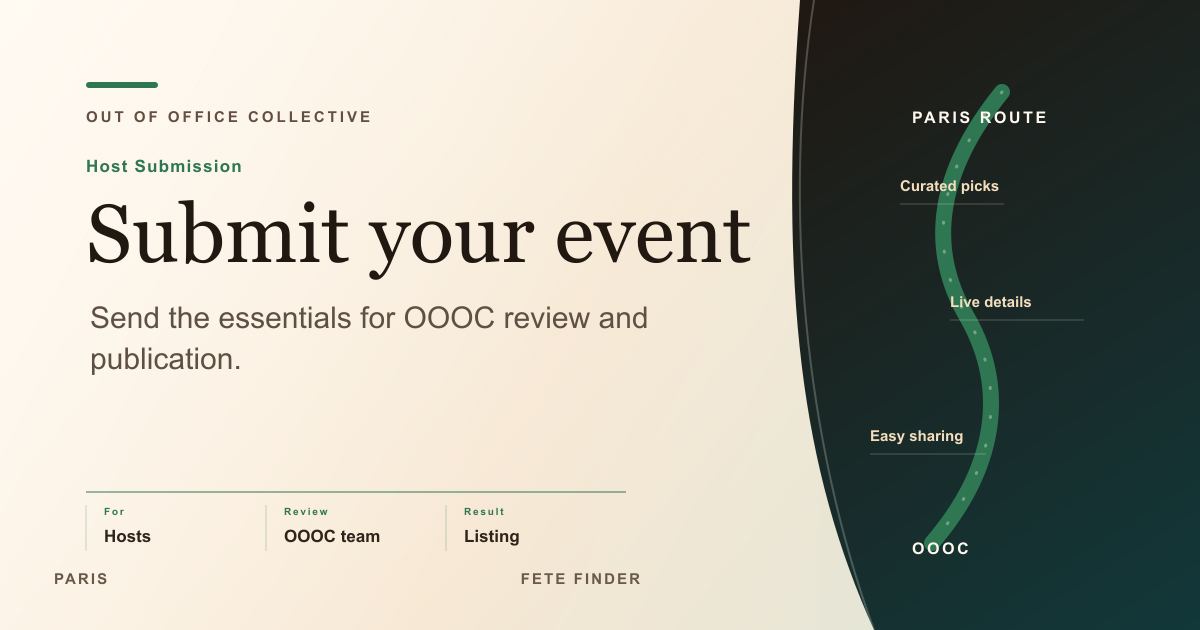
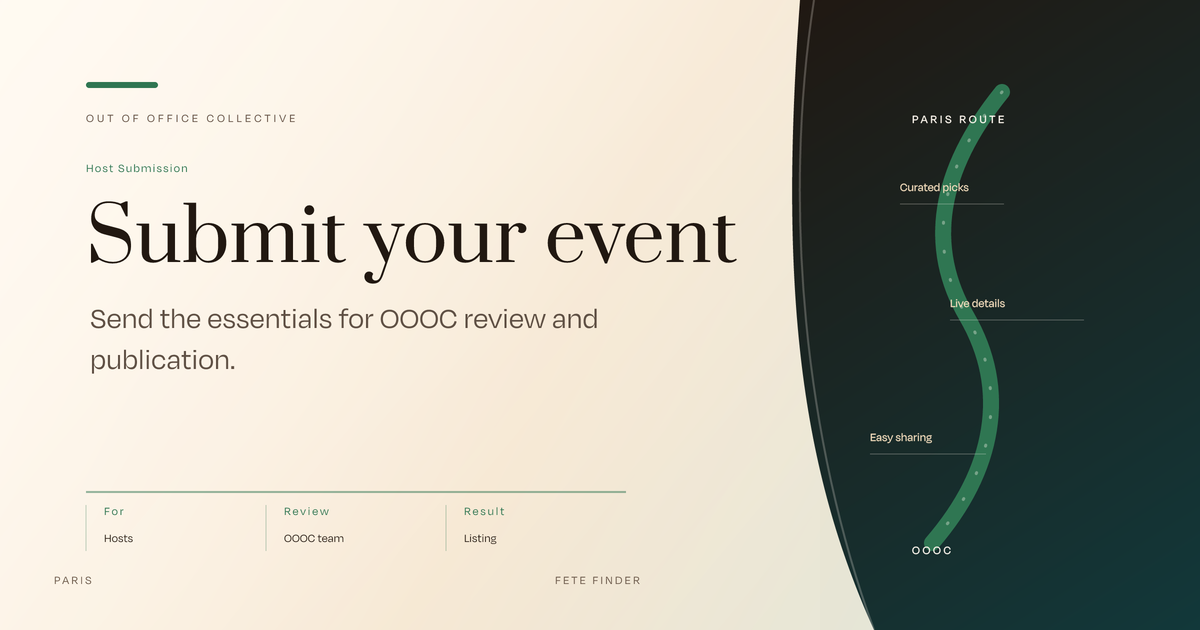
fix/standardize-og-rendering

diff --git a/app/exchange/[eventKey]/page.tsx b/app/exchange/[eventKey]/page.tsx
@@ -7,6 +7,12 @@ import {
 	getTicketExchangePageModel,
 } from "@/features/ticket-exchange/service";
 import { getPublicSlidingBannerSettingsCached } from "@/features/site-settings/queries";
+import { buildSiteUrl } from "@/lib/site-url";
+import {
+	generateEventOGImage,
+	generateOGMetadata,
+	generatePresetOGImage,
+} from "@/lib/social/og-utils";
 import type { Metadata } from "next";
 import { notFound } from "next/navigation";
 
@@ -22,13 +28,18 @@ export async function generateMetadata({
 	const { eventKey } = await params;
 	const events = await getTicketExchangeEvents();
 	const event = findTicketExchangeEventByKey(events, eventKey);
-	return {
-		title: event
-			? `${event.name} Tickets | Fete Finder`
-			: "Ticket Exchange | Fete Finder",
+	const title = event
+		? `${event.name} Tickets | Fete Finder`
+		: "Ticket Exchange | Fete Finder";
+	return generateOGMetadata({
+		title,
 		description:
 			"Find people selling or looking for tickets. OOOC only connects people; trades happen off-platform.",
-	};
+		ogImageUrl: event
+			? generateEventOGImage({ eventKey: event.eventKey })
+			: generatePresetOGImage("exchange"),
+		url: buildSiteUrl(`/exchange/${eventKey}`),
+	});
 }
 
 export default async function ExchangeEventPage({

diff --git a/app/exchange/page.tsx b/app/exchange/page.tsx
@@ -3,15 +3,22 @@ import { getTicketExchangeSession } from "@/features/ticket-exchange/auth";
 import { TicketExchangeShell } from "@/features/ticket-exchange/components/TicketExchangeShell";
 import { getTicketExchangePageModel } from "@/features/ticket-exchange/service";
 import { getPublicSlidingBannerSettingsCached } from "@/features/site-settings/queries";
+import { buildSiteUrl } from "@/lib/site-url";
+import {
+	generateOGMetadata,
+	generatePresetOGImage,
+} from "@/lib/social/og-utils";
 import type { Metadata } from "next";
 
 export const dynamic = "force-dynamic";
 
-export const metadata: Metadata = {
+export const metadata: Metadata = generateOGMetadata({
 	title: "Ticket Exchange | Fete Finder",
 	description:
 		"Find people selling or looking for tickets linked to Fete Finder events. OOOC only connects people; trades happen off-platform.",
-};
+	ogImageUrl: generatePresetOGImage("exchange"),
+	url: buildSiteUrl("/exchange"),
+});
 
 export default async function ExchangePage() {
 	const [session, bannerSettings] = await Promise.all([

diff --git a/app/api/og/route.tsx b/app/api/og/route.tsx
@@ -44,6 +44,8 @@ const ALLOWED_PRESETS = [
 	"partner-success",
 	"partner-performance-report",
 	"social-assets",
+	"exchange",
+	"plans",
 	"event",
 	"shared-plan",
 ] as const;
@@ -193,6 +195,16 @@ const STATIC_PRESET_CONTENT: Record<
 		variant: "default",
 		title: "Social Assets",
 		subtitle: "Private branded export routes for creative assets",
+	},
+	exchange: {
+		variant: "default",
+		title: "Ticket Exchange",
+		subtitle: "Find ticket posts linked to curated Fête Finder events",
+	},
+	plans: {
+		variant: "default",
+		title: "Plan Your Route",
+		subtitle: "Save events, order your stops, and share the night",
 	},
 };
 
@@ -530,8 +542,10 @@ const getSvgTitleLayout = (title: string, isEventCard: boolean) => {
 			return {
 				lines,
 				size:
-					!isEventCard && title.length <= 14 && lines.length === 1
-						? 104
+					lines.length === 1 && !isEventCard
+						? title.length <= 14
+							? 104
+							: Math.min(candidate.size, 74)
 						: candidate.size,
 				lineHeight: candidate.size * 0.98,
 			};

diff --git a/app/plans/page.tsx b/app/plans/page.tsx
@@ -3,8 +3,22 @@ import { getLiveEvents } from "@/features/data-management/runtime-service";
 import { toHomepageEventPayload } from "@/features/events/homepage-event-payload";
 import { PlansClient } from "@/features/plans/components/PlansClient";
 import { getPublicSlidingBannerSettingsCached } from "@/features/site-settings/queries";
+import { buildSiteUrl } from "@/lib/site-url";
+import {
+	generateOGMetadata,
+	generatePresetOGImage,
+} from "@/lib/social/og-utils";
+import type { Metadata } from "next";
 
 export const revalidate = false;
+
+export const metadata: Metadata = generateOGMetadata({
+	title: "Plans | Fete Finder",
+	description:
+		"Save Fete Finder events, order your stops, and share your route for the night.",
+	ogImageUrl: generatePresetOGImage("plans"),
+	url: buildSiteUrl("/plans"),
+});
 
 export default async function PlansPage() {
 	const [result, bannerSettings] = await Promise.all([

diff --git a/lib/social/og-utils.ts b/lib/social/og-utils.ts
@@ -15,7 +15,9 @@ export type OGPreset =
 	| "feature-event"
 	| "partner-success"
 	| "partner-performance-report"
-	| "social-assets";
+	| "social-assets"
+	| "exchange"
+	| "plans";
 
 const STATIC_OG_IMAGE_BY_PRESET: Record<OGPreset, string> = {
 	home: "/og/home.png",
@@ -26,6 +28,8 @@ const STATIC_OG_IMAGE_BY_PRESET: Record<OGPreset, string> = {
 	"partner-success": "/og/partner-success.png",
 	"partner-performance-report": "/og/partner-performance-report.png",
 	"social-assets": "/og/social-assets.png",
+	exchange: "/og/exchange.png",
+	plans: "/og/plans.png",
 };
 
 type OGImageParams = {
